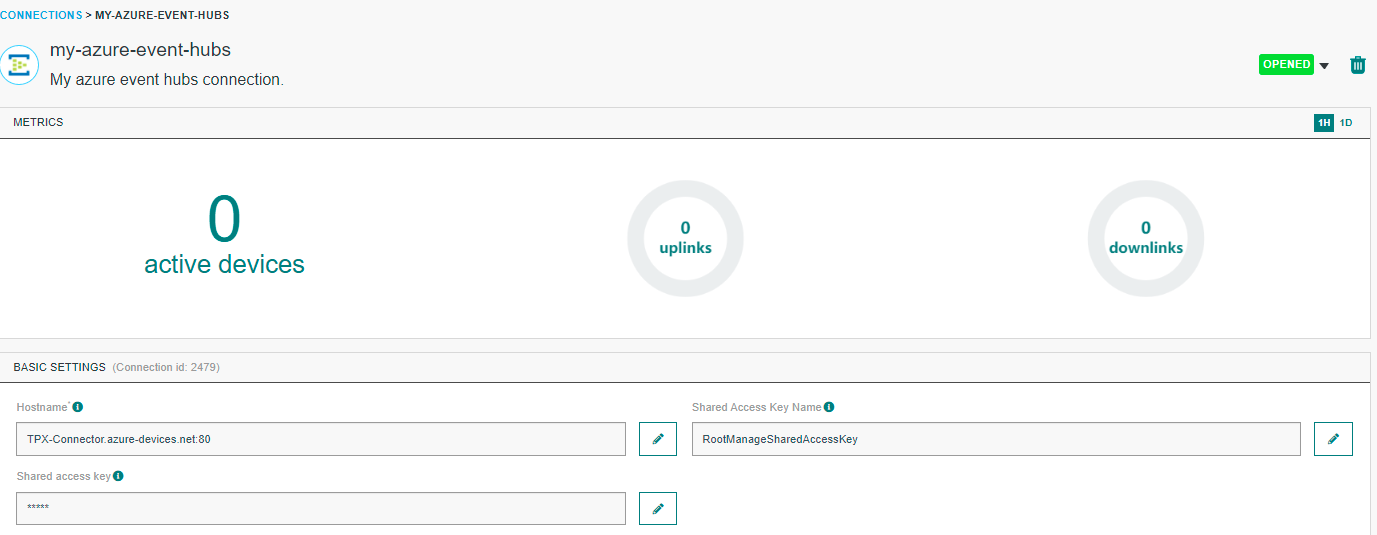
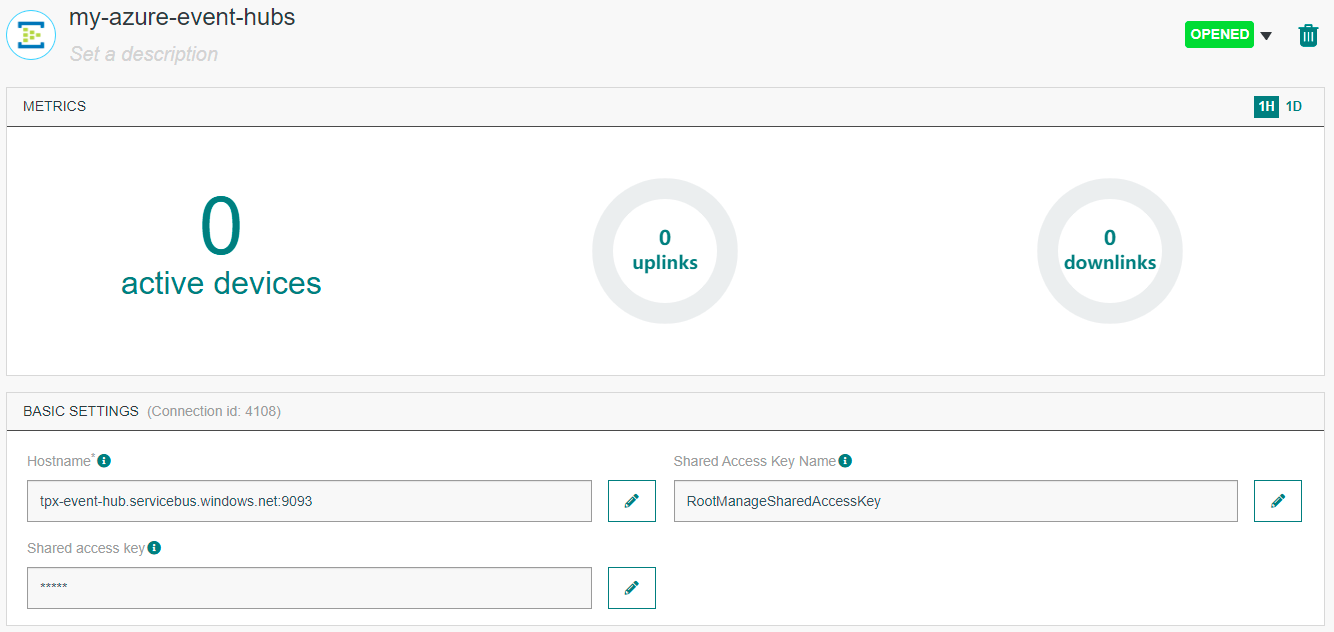
TXIF-1806 | Update Azure Event Hubs connector
Some screenshots had to be redone and some fields changed

diff --git a/docs/Connector/AZUREEVENT/README.md b/docs/Connector/AZUREEVENT/README.md
@@ -32,21 +32,21 @@ For detailed information on Microsoft Azure Event Hubs configuration and paramet
 
 ![img](./images/recent_resources.png)
 
-3. Select the IoT Hub that you have created, in this case TPX-Connector.
+3. Select the Event Hubs that you have created, in this case **tpx-event-hubs**.
 
 4. On the Overview page you should see the **Hostname** as well as other informations.
 
 ![img](./images/connector_details.png)
 
-5. In the menu, click on the **Shared access policy** under the Security section.
+5. In the menu, click on the **Shared access policy** under the Settings section.
 
 ![img](./images/shared_access.png)
 
-6. Select an existing access. In this example, it is iothubowner.
+6. Select an existing access. In this example, it is **RootManageSharedAccessKey**.
 
 ![img](./images/select_access.png)
 
-7. A screen displays on the right side of your screen where you can copy the **access keys** needed for the creation of the connection.
+7. A screen displays on the right side of your screen where you can copy the **access keys** needed for the creation of the connection. Copy the primary key which is your shared access key.
 
 ![img](./images/access_details.png)
 
@@ -54,17 +54,25 @@ For detailed information on Microsoft Azure Event Hubs configuration and paramet
 The following section helps you create a new access. Skip this part if you already have one and follow the section above.
 :::
 
+### Port
+
+When creating an Azure Event Hubs connection with the UI, you need to provide the **hostname** which is composed of the name and port used.
+
+The port used changes depending on the protocol used. In this case, you must used the **9093** port because the protocol used is Kafka.
+
+In our example, it means that our full hostname will be **my-event-hub.servicebus.windows.net:9093**.
+
+| Protocol | Ports | Details |
+| -------- | ----- | ------- |
+| **Kafka** | 9093 | See [Use Event Hubs from Kafka applications](https://docs.microsoft.com/en-us/azure/event-hubs/event-hubs-for-kafka-ecosystem-overview) |
+
 ### Creating access
 
-1. In the **shared access policy** section, click on **Add shared access policy**.
+1. In the **shared access policy** section, click on **Add**.
 
 ![img](./images/add_shared_access.png)
 
-2. A window will open on the right side. Enter the name of the new policy, select the permissions and click **Add**. You must select at least the following permissions:
-
-* Registry read
-* Registry write
-* Device connect
+2. A window will open on the right side. Enter the name of the new policy, select the permissions and click **Create**.
 
 ![img](./images/create_policy.png)
 
@@ -72,17 +80,7 @@ The following section helps you create a new access. Skip this part if you alrea
 
 ![img](./images/notif_policy.png)
 
-Your new policy has been created. Open it and make sure the access keys are generated.
-
-### Port
-
-When creating an Azure Event Hubs connection, you need to provide the **hostname** which is composed of the name and port used.
-
-The port used changes depending on the protocol used. In this case, you must used the **9093** port because the protocol used is Kafka.
-
-| Protocol | Ports | Details |
-| -------- | ----- | ------- |
-| **Kafka** | 9093 | See [Use Event Hubs from Kafka applications](https://docs.microsoft.com/en-us/azure/event-hubs/event-hubs-for-kafka-ecosystem-overview) |
+Your new policy has been created. You can then open it and retrieve the shared access keys.
 
 ## Creating a Connection With API
 
